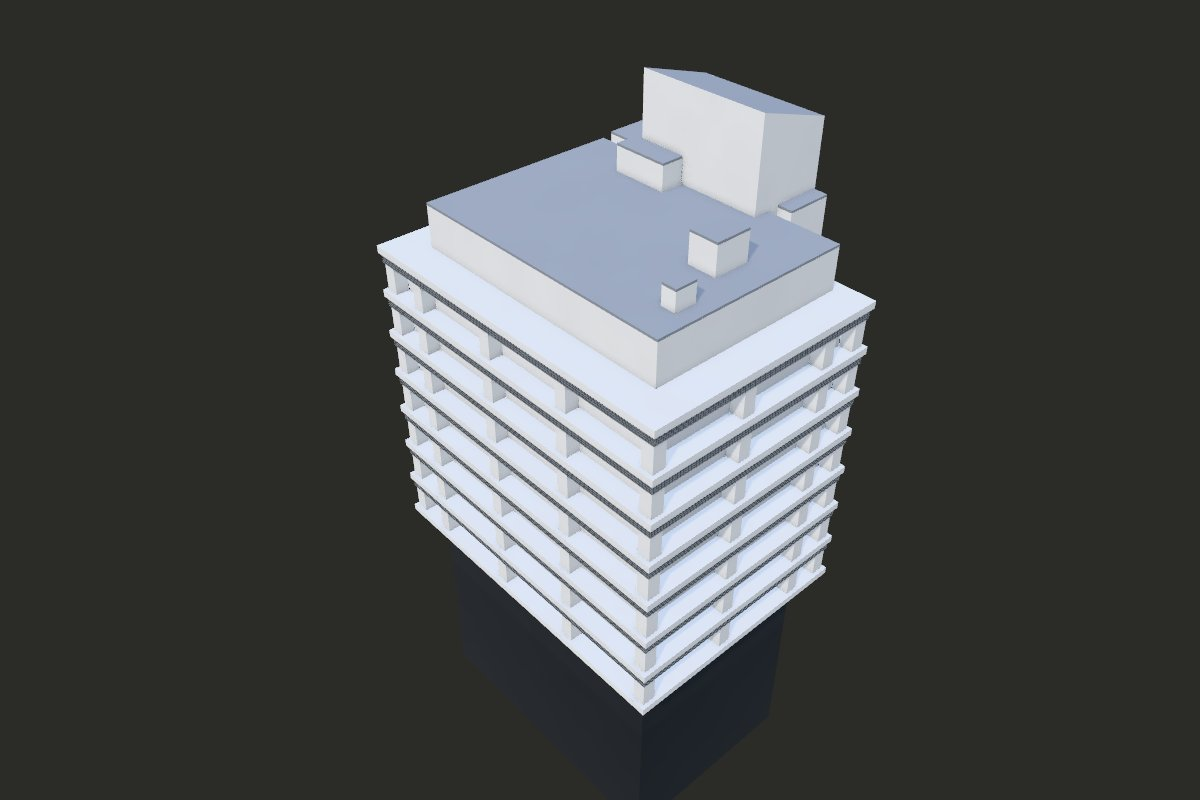
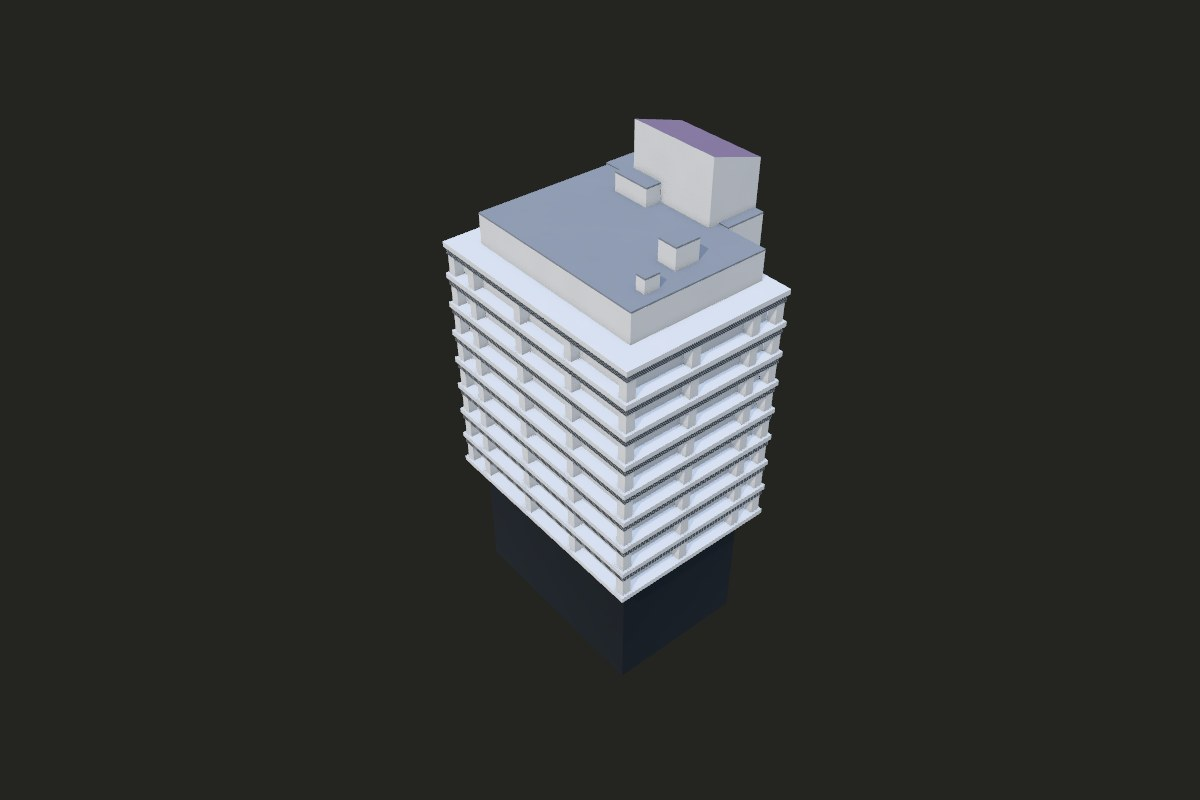
58 Symonds Street (435), review round 1: the lowest storey of windows, the core's plum roof, the ground's fall
The review of #167 found the band at 55.7 m and the storey of windows over the dark ground storey missing (the LiDAR
has 266 returns at 55.0 to 56.2 m in the bands' outer metre), so the tower has eight storeys of windows, not seven.
The 2023 aerial shows the core's roof a dull plum where the other roofs are grey: roofPlum is new in the kit, a roof
in the light form. The two strips on the street side run in to the upper roof's edge, as the LiDAR's roof does. The
ground's figures come from the LiDAR within 5 m of each face: the real ground falls about 6 m from the door to the
south-east face, not 11. The exposure goes to 0.69 (luma 177 against 177; 0.82 gave 192 with the eighth storey).

Silhouette IoU 0.938, 0.966 in the model's box; the top view as before (0.905, 93% within 0.5 m); 8,082 triangles in
6 draw calls. The four pictures are taken again, the site's two at 435's own framing.

Claude-Session: https://claude.ai/code/session_01WyPcwFTXkmVC7XB6LWPSiH

Changed region(s): [[0.3083, 0.0625, 0.74, 0.9062]]

diff --git a/landmarks/58-symonds-street/parts/common.js b/landmarks/58-symonds-street/parts/common.js
@@ -11,27 +11,30 @@
 // south-west.
 //
 // 58 Symonds Street, building 435: a tower of offices over a slope that falls from the north-west to the south-east,
-// its floor slabs' bands 3.04 m apart up to the roof's edge at 80.15 m, an upper roof set in from the edge at 83.1 m,
-// and on its street side a core to 89.2 m.
+// its eight floor slabs' bands about 3.05 m apart from 55.7 m up to the roof's edge at 80.15 m, an upper roof set in
+// from the edge at 83.1 m, and on its street side a core to 89.2 m.
 export const GROUND = 53.03;
 export const at = (u, w) => [-u, w];
 /** An elevation measured in the LiDAR, as a height above the config's ground. */
 export const Y = (z) => z - GROUND;
 export const plan = (corners) => corners.map(([u, w]) => at(u, w));
 
-// The ground round the tower lies from about 42.4 m (the south-east side, p1 of its returns) to 54.5 m (the north-west
-// side); the walls go down to FOOT.
+// The ground within 5 m of the tower's walls (the LiDAR's class 2) lies from about 45.8 m (p1; p50 47.2) along the
+// south-east face to 53.4 m on the platform before the north-east face, and rises to 54.4 to 55.5 m 6 to 10 m off the
+// north-west face; it falls to about 42.4 m 10 to 12 m south-east of the tower. The walls go down to FOOT.
 export const FOOT = Y(42.0);
 
 /** The tower: the outer edge of its floor slabs' bands (the LiDAR's returns on the faces to p0.5/p99.5: north-east
  * w -8.62, north-west u 13.34, south-east u -10.70; south-west w 8.7 where the core does not stand out), the slabs'
- * tops from the returns on the faces, 3.04 m apart (58.8, 61.83, 64.87, 67.93, 70.97, 74.01, 77.04), and the roof's
- * edge at 80.15 (p90 of the returns round the edge). */
+ * tops from the returns on the faces, about 3.05 m apart (55.7, 58.8, 61.83, 64.87, 67.93, 70.97, 74.01, 77.04: the
+ * lowest, at the foot of the storeys of windows over the dark ground storey, from the 266 returns at 55.0 to 56.2 m in
+ * the bands' outer metre on the north-east, north-west and south-east faces, p50 55.70), and the roof's edge at 80.15
+ * (p90 of the returns round the edge). */
 export const TOWER = {
   u: [-10.7, 13.4],
   w: [-8.6, 8.7],
   edge: Y(80.15),
-  slabs: [58.8, 61.83, 64.87, 67.93, 70.97, 74.01, 77.04].map(Y),
+  slabs: [55.7, 58.8, 61.83, 64.87, 67.93, 70.97, 74.01, 77.04].map(Y),
 };
 
 /** The upper roof, 2.2 to 2.4 m in from the edge (its returns' p0.5/p99.5: north-east w -6.25, north-west u 11.07,
@@ -41,12 +44,14 @@ export const UPPER = { u: [-8.32, 11.07], w: [-6.25, 7.8], top: Y(83.1) };
 
 /** On the street side, standing out from the south-west face: a low block by the south corner (u -10.97 to -8.54,
  * w 8.04 to 12.22, its roof at 61.83 m), a strip (u -8.54 to -3.53, w 7.73 to 12.53) to 83.22 m (p50 of its 139
- * returns over 80 m; a few to 84.1), and beside the core
- * on its north-west a strip (u 5.86 to 6.91, w 8.73 to 11.94; p50 83.22 of 29 returns) to 83.22 m. */
+ * returns over 80 m; a few to 84.1), and beside the core on its north-west a strip (u 5.86 to 6.91, w 8.73 to 11.94;
+ * p50 83.22 of 29 returns) to 83.22 m. Both strips run in to the upper roof's edge at w 7.8: the LiDAR's roof runs on
+ * from the upper roof to them at 83.2 to 83.7 m with no step down (u -8.3 to -3.6, w 7.8 to 8.7: 42 returns, p50
+ * 83.58). */
 export const STREET = [
   { u: [-10.97, -8.54], w: [8.7, 12.22], top: Y(61.83) },
-  { u: [-8.54, -3.53], w: [8.7, 12.53], top: Y(83.22) },
-  { u: [5.86, 6.91], w: [8.7, 11.94], top: Y(83.22) },
+  { u: [-8.54, -3.53], w: [7.8, 12.53], top: Y(83.22) },
+  { u: [5.86, 6.91], w: [7.8, 11.94], top: Y(83.22) },
 ];
 
 /** The core (u -3.53 to 5.86, w 6.68 to 12.11; 482 returns over 87.5 m), its roof one slope falling to the street:

diff --git a/landmarks/58-symonds-street/parts/block.js b/landmarks/58-symonds-street/parts/block.js
@@ -4,8 +4,9 @@
 import { CORE, FOOT, PLANT, STREET, TOWER, UPPER, at, plan } from "./common.js";
 import { block, prism, tris } from "./shapes.js";
 
-// The walls the pale grey of the tower's bands, as the photograph shows them; the roofs mid-grey.
-const WALL = "claddingPale", ROOFS = "roofGrey";
+// The walls the pale grey of the tower's bands, as the photograph shows them; the roofs mid-grey, and the core's a dull
+// plum, as the 2023 aerial shows them (about RGB 121, 103, 127 on the core, 167, 166, 169 on the upper roof).
+const WALL = "claddingPale", ROOFS = "roofGrey", CORE_ROOF = "roofPlum";
 
 const box = ([u0, u1], [w0, w1]) => plan([[u0, w0], [u1, w0], [u1, w1], [u0, w1]]);
 
@@ -29,7 +30,7 @@ export function core(b) {
   const h = (w) => CORE.high - CORE.fall * (w - CORE.at), lo = h(w1), hi = h(w0);
   prism(b, box(CORE.u, CORE.w), FOOT - 0.1, lo, WALL);
   const P = (u, w, y) => { const [x, z] = at(u, w); return [x, y, z]; };
-  tris(b, [[P(u0, w0, hi), P(u1, w0, hi), P(u1, w1, lo)], [P(u0, w0, hi), P(u1, w1, lo), P(u0, w1, lo)]], ROOFS, "up");
+  tris(b, [[P(u0, w0, hi), P(u1, w0, hi), P(u1, w1, lo)], [P(u0, w0, hi), P(u1, w1, lo), P(u0, w1, lo)]], CORE_ROOF, "up");
   const out = (du, dw) => ([x, z]) => [x - du, z + dw];  // outward in the view frame (x = -u)
   tris(b, [[P(u0, w0, lo), P(u1, w0, lo), P(u1, w0, hi)], [P(u0, w0, lo), P(u1, w0, hi), P(u0, w0, hi)]], WALL, out(0, -1));
   tris(b, [[P(u0, w0, lo), P(u0, w0, hi), P(u0, w1, lo)]], WALL, out(-1, 0));

diff --git a/landmarks/kit/materials.js b/landmarks/kit/materials.js
@@ -347,6 +347,9 @@ export function makeMaterials(quality = "high", textures = makeTextures(quality)
     claddingYellow: painted(0xc8a844, 0.6, space),
     renderRed: painted(0x7e322b, 0.7, space),
     steelBlue: painted(0x7f90a2, 0.5, space),
+    // 58 Symonds Street: the pale roof's shader in a dull plum, the roof of its core on the 2023 aerial (about RGB
+    // 121, 103, 127 there, where its other roofs are a neutral light grey)
+    roofPlum: roofPale(0x79677f, space),
   };
   return m;
 }

diff --git a/src/scene/landmarks.ts b/src/scene/landmarks.ts
@@ -89,6 +89,7 @@ const LIGHT_ROLE: Record<string, keyof LightMaterials> = {
   roofGrey: "roof",
   roofGreen: "roof",
   roofTile: "roof",
+  roofPlum: "roof",
   glass: "glass",
   glassPale: "glass",
   glassGreen: "glass",

diff --git a/README.md b/README.md
@@ -70,7 +70,7 @@ It is built to answer two questions a student actually has:
 ## What's new
 
 - **2026-11-12:** on the City campus the map draws 58 Symonds Street in detail, where it stood as a measured massing:
-  a tower of seven storeys of windows over a dark ground storey, a pale band at every floor with louvres hung under it,
+  a tower of eight storeys of windows over a dark ground storey, a pale band at every floor with louvres hung under it,
   and piers between the windows. Its sizes come from the LiDAR; it was compared with a photograph, which is not
   published, and its card says what is estimated.
 - **2026-11-11:** four more buildings are drawn from the LiDAR as measured massings, their roofs at their
@@ -929,7 +929,7 @@ drawn plainly.
 | ![Fine Arts Studio Block 433 from the road at its end, drawn from code](docs/landmarks/fine-arts-studio-block-433-front.jpg) | ![Fine Arts Studio Block 433 from above, drawn from code](docs/landmarks/fine-arts-studio-block-433-above.jpg) |
 | ![Fine Arts Studio Block 433 on the map, drawn from code in the map's colours](docs/landmarks/fine-arts-studio-block-433-map.jpg) | ![Fine Arts Studio Block 433 from the road at its end, through the walker's eyes](docs/landmarks/fine-arts-studio-block-433-eyes.jpg) |
 
-The thirty-seventh is 58 Symonds Street, on the City campus, until now a measured massing: a tower of seven storeys of
+The thirty-seventh is 58 Symonds Street, on the City campus, until now a measured massing: a tower of eight storeys of
 windows over a dark ground storey, on a slope that falls to the south-east; at every floor a deep pale grey band runs
 round it with a row of louvres hung under it, over a band of windows set back behind it, a column at each corner and
 piers between them; an upper roof stands in from its edge, and on its street side a core rises over it with a roof
@@ -1173,7 +1173,7 @@ an estimate of 3.6 m a floor, and its windows and roof rims are drawn by rule.
 | A photograph of Auckland Bioengineering House from Symonds Street to its north-west | The look its model was compared with while it was drawn, and the place of the second stone fin on its north face, estimated in it through a camera fitted to the LiDAR | Used as a reference only: never published, traced or sampled, and kept on the maintainer's computer. |
 | A photograph of Architecture - East from a paved deck above its raised terrace | The look its model was compared with while it was drawn, and, as a reference, the storeys' height and the parapets, windows and dormers on its faces to the terrace | Used as a reference only: never published, traced or sampled, and kept on the maintainer's computer. |
 | A photograph of Building 907 from the street to its west-south-west | The look its model was compared with while it was drawn, and, as a reference, the places and heights of the band of glazing on the hall's end and of the annex's windows and doors, estimated in it through a camera fitted to the LiDAR | Used as a reference only: never published, traced or sampled, and kept on the maintainer's computer. |
-| Auckland Central 0.06 m Urban Aerial Photos (2023), tiles `BA32_2000_*` of LINZ's imagery on AWS | The plan of the Kenneth Myers Centre's west part (820), where the 2024 LiDAR holds temporary works, measured for its model in `landmarks/kenneth-myers-centre/`; for the Kate Edger Information Commons (315), where its end over the sunken court ends and that its roof light is glass; for the Humanities Building (206), that its roofs are red clay tiles but for the two flat roofs in the angle of its L, which are grey; for building 302 of the Science Centre (302), that its roofs are grey; for building 303 of the Science Centre (303), that the roofs of its range along the street and of its slab are near white; for building 303S of the Science Centre (303S), that its roofs are grey; for Building 907 (907), that its roofs are near white; for 49 Symonds Street (620), that the flat top of the mansard on its roof is pale; for Okareta (215), that its roofs are grey; for buildings 501, 502, 505 and 507 of the M&HS Building (501, 502, 505, 507), that their roofs are grey; for Te Pūtahi Tangata (201), that its roofs are grey, with strips of glazing and a planted part on the hall's; for the George Mason Biology Building (106), that its roofs and its attic are grey; for Building 114 (114), that its roofs are light grey; for 67 Symonds Street (619), that its roofs are mid-grey; for Fine Arts Studio Block 431 (431), that its roofs are light grey; for Fine Arts Studio Block 433 (433), that its vault is light grey; for 58 Symonds Street (435), that its roofs are grey; for 2-6 Park Ave (529), that its raised part's roof is red | Sourced from LINZ and licensed by Auckland Council for re-use under [CC BY 4.0](https://creativecommons.org/licenses/by/4.0/) ([LINZ's attribution page](https://www.linz.govt.nz/products-services/data/licensing-and-using-data/attributing-elevation-or-aerial-imagery-data)). Only the measured sizes are published, in the landmark's `parts/common.js`; the tiles stay on the computer that fetched them. |
+| Auckland Central 0.06 m Urban Aerial Photos (2023), tiles `BA32_2000_*` of LINZ's imagery on AWS | The plan of the Kenneth Myers Centre's west part (820), where the 2024 LiDAR holds temporary works, measured for its model in `landmarks/kenneth-myers-centre/`; for the Kate Edger Information Commons (315), where its end over the sunken court ends and that its roof light is glass; for the Humanities Building (206), that its roofs are red clay tiles but for the two flat roofs in the angle of its L, which are grey; for building 302 of the Science Centre (302), that its roofs are grey; for building 303 of the Science Centre (303), that the roofs of its range along the street and of its slab are near white; for building 303S of the Science Centre (303S), that its roofs are grey; for Building 907 (907), that its roofs are near white; for 49 Symonds Street (620), that the flat top of the mansard on its roof is pale; for Okareta (215), that its roofs are grey; for buildings 501, 502, 505 and 507 of the M&HS Building (501, 502, 505, 507), that their roofs are grey; for Te Pūtahi Tangata (201), that its roofs are grey, with strips of glazing and a planted part on the hall's; for the George Mason Biology Building (106), that its roofs and its attic are grey; for Building 114 (114), that its roofs are light grey; for 67 Symonds Street (619), that its roofs are mid-grey; for Fine Arts Studio Block 431 (431), that its roofs are light grey; for Fine Arts Studio Block 433 (433), that its vault is light grey; for 58 Symonds Street (435), that its roofs are grey but for its core's, which is plum; for 2-6 Park Ave (529), that its raised part's roof is red | Sourced from LINZ and licensed by Auckland Council for re-use under [CC BY 4.0](https://creativecommons.org/licenses/by/4.0/) ([LINZ's attribution page](https://www.linz.govt.nz/products-services/data/licensing-and-using-data/attributing-elevation-or-aerial-imagery-data)). Only the measured sizes are published, in the landmark's `parts/common.js`; the tiles stay on the computer that fetched them. |
 | A photograph of the Sir Owen G Glenn Building from the north edge of its plaza | The look its model was compared with while it was drawn, and, as a reference, the heights of the bands of glass, spandrels and louvres on its curved wing, estimated in it through a camera fitted to the LiDAR | Used as a reference only: never published, traced or sampled, and kept on the maintainer's computer. |
 | [Open-Meteo](https://open-meteo.com/) | Current weather in Auckland (temperature, cloud, rain, wind), fetched by the visitor's browser | [CC BY 4.0](https://open-meteo.com/en/licence) |
 | ["Animated Human" by Quaternius](https://opengameart.org/content/animated-human-low-poly) | The walker's body and its idle, walk and run, in `public/models/walker.glb` | [CC0 1.0](https://creativecommons.org/publicdomain/zero/1.0/), public domain. Downloaded once, on 2026-10-16. |
@@ -1702,8 +1702,8 @@ If you represent the University and would like something changed or removed, ple
   is not known from a record: its door is set on the platform before its north-east face, near the north corner. The
   map's ground there is 9.52 m under the LiDAR's, so the model stands that much lower than the real building, on the
   drawn ground at its door; under its walls the map's ground runs from 2.08 m under the door's to 1.25 m over it,
-  where the real ground falls about 11 m to the south-east, so on the site its lowest storeys on that side stand
-  under the drawn ground.
+  where the real ground falls about 6 m to the south-east, so on the site the lowest 4 m or so on that side, the lower
+  half of its dark ground storey there, stand under the drawn ground.
 - **The Fisher Building is seen from Waterloo Quadrant only.** Two Street View panoramas see its west
   and south faces; its faces turned north, east and south-east, which no photograph shows, are tan
   brick with their floor bands, and its roofs are flat. Block 804's outline under the trees by its

diff --git a/landmarks/58-symonds-street/README.md b/landmarks/58-symonds-street/README.md
@@ -1,6 +1,6 @@
 # Landmark: 58 Symonds Street, drawn from code
 
-58 Symonds Street of the University of Auckland, on the City campus: a tower of seven storeys of windows over a dark
+58 Symonds Street of the University of Auckland, on the City campus: a tower of eight storeys of windows over a dark
 ground storey, on a slope that falls from the north-west to the south-east, a deep pale grey band at every floor with
 a row of louvres hung under it, a column at each corner and piers between, an upper roof set in from its edge, and on
 its street side a core whose roof falls to the street. It is drawn in three.js from code alone, sized by the LINZ 2024
@@ -65,8 +65,9 @@ From the LiDAR:
   the core's north-west (83.22 m), and the core (u -3.53 to 5.86, w 6.68 to 12.11), its roof one slope falling to the
   street, 0.3 m a metre, from 89.25 m at w 7.0 (the returns' p50 in 0.5 m strips run from 89.23 at w 7.0 to 87.75 m at
   w 12.0).
-- **The walls' foot**, FOOT, 42.0 m: the ground round the tower lies from about 42.4 m on the south-east to 55.6 m on
-  the north-west.
+- **The walls' foot**, FOOT, 42.0 m: the ground within 5 m of the walls lies from about 45.8 m along the south-east
+  face (p50 47.2) to 53.4 m on the platform before the north-east face, and rises to 55.5 m off the north-west face;
+  it falls to about 42.4 m 10 to 12 m south-east of the tower.
 
 Estimated, with the photograph as a reference (`FACE`): each slab's band 0.5 m deep from its top (19 to 20 px at the
 photograph's near corner, where the fitted camera puts 0.5 m at 19 to 20 px and 0.7 m at 27 to 28); the window wall
@@ -83,7 +84,7 @@ stands out past the bands above 62 m.
 
 The photograph's two faces face north-east and north-west and show about equally bright, so the viewer's sun stands to
 the north-north-east (20 degrees round, 45 up), weaker than by default (3, against 8), with a stronger sky (3.2, against
-2.25), at an exposure of 0.82 (the config's `light`): over the model's screen box the luma (p50) 177 against the
+2.25), at an exposure of 0.69 (the config's `light`): over the model's screen box the luma (p50) 177 against the
 photograph's 177.
 
 ## On the map (step 7)
@@ -103,12 +104,14 @@ leaves it out, as it does every landmark on the site, and writes every other fil
 - **The foot.** It stands alone, its y = 0 on the map's ground at its door. Its walls go down to FOOT, 11.03 m under
   the door's ground, under the map's ground at every corner of the walls (the lowest, 2.08 m under the door's, at the
   tower's east corner; 8.95 m to spare).
-- **Under the drawn ground.** The real ground falls about 11 m from the door to the tower's south-east side; the map's
-  8 m ground falls only about 2 m there, so on the site the lowest storeys on that side stand under the drawn ground.
+- **Under the drawn ground.** The real ground falls about 6 m from the door to the tower's south-east side (the
+  LiDAR's within 5 m of that face, p50 47.2 m); the map's 8 m ground falls only about 2 m there, so on the site the
+  lowest 4 m or so on that side, the lower half of the dark ground storey there, stand under the drawn ground.
 - **While a building is open** its neighbours sink to footprints, and the model gives way to block 435, which sinks on
   its footing (`updateLandmarks` in `src/scene/CampusScene.ts`).
-- **The light form** (the map, and the walker views of the basic tier) draws `glass` as glass and `roofGrey` as a roof,
-  as `LIGHT_ROLE` (`src/scene/landmarks.ts`) already says; `claddingPale`, `screenGrey` and `screenBlack` are walls.
+- **The light form** (the map, and the walker views of the basic tier) draws `glass` as glass and `roofGrey` and
+  `roofPlum` as roofs, as `LIGHT_ROLE` (`src/scene/landmarks.ts`) says (`roofPlum`, the core's roof, is new in the kit
+  for it); `claddingPale`, `screenGrey` and `screenBlack` are walls.
 - **Its card** says "estimated:" and the config's `estimated`.
 - **The pictures** in `docs/landmarks/`: `58-symonds-street-front.jpg` and `-above.jpg` are the viewer's renders of the
   model alone, from the ground to its north and from above, with no photograph; `-map.jpg` and `-eyes.jpg` are shots of

diff --git a/landmarks/58-symonds-street/docs/CONTRACT.md b/landmarks/58-symonds-street/docs/CONTRACT.md
@@ -18,8 +18,9 @@ The rules every part of this landmark keeps. The kit, the pipeline and the viewe
   face, a low block by the south corner to 61.83 m, two strips to 83.22 m and a core whose roof falls to the street
   from 89.25 to 87.72 m; plant on the upper roof at 84.5 to 85.2 m. A low roof at about 56 m runs along the
   south-east side (u -15.5 to -10.9), outside the campus map's outline: it is not drawn.
-- Walls go down to `FOOT`, 42.0 m: the ground round the tower lies from about 42.4 m on the south-east to 55.6 m on
-  the north-west, the car park's ramp falling along the north-east side.
+- Walls go down to `FOOT`, 42.0 m: the ground within 5 m of the walls lies from about 45.8 m along the south-east face
+  (p50 47.2) to 53.4 m on the platform before the north-east face, and rises to 55.5 m off the north-west face; it
+  falls to about 42.4 m 10 to 12 m south-east of the tower, the car park's ramp falling along the north-east side.
 
 ## Who owns what
 - `parts/common.js` (the measured sizes and the frame), `parts/block.js`, `parts/facade.js`, `parts/shapes.js`
@@ -27,7 +28,8 @@ The rules every part of this landmark keeps. The kit, the pipeline and the viewe
 
 ## Budget
 - Whole building ≤ 20k triangles and ≤ 6 draw calls (tier 3, a measured massing drawn in detail), merged by material.
-  Round 0: 204 triangles in the mask model; steps 5 to 8: 7,098 triangles, 5 draw calls.
+  Round 0: 204 triangles in the mask model; steps 5 to 8: 7,098 triangles, 5 draw calls; after the review of #167:
+  8,082 triangles, 6 draw calls.
 
 ## Rounds
 - Round 0 (2026-11-11, the lead alone): the tower, its slabs' bands, the upper roof and the street side's three
@@ -45,3 +47,11 @@ The rules every part of this landmark keeps. The kit, the pipeline and the viewe
   measured massing's data file gone. 7,098 triangles, 5 draw calls; silhouette IoU 0.938, 0.970 in the model's box;
   top view: footprint IoU 0.905, 93% of 1,873 cells within 0.5 m, the highest point 36.30 m over the door's ground
   against the LiDAR's 36.27, block 435 97.7% under the model.
+- The review of #167 (2026-11-12): the lowest slab's band at 55.7 m (the LiDAR's 266 returns at 55.0 to 56.2 m in
+  the bands' outer metre) and its storey of windows, which the photograph shows over the dark ground storey: eight
+  storeys of windows, not seven; the core's roof a dull plum (`roofPlum`, new in the kit), as the 2023 aerial shows
+  it; the two strips on the street side run in to the upper roof's edge, as the LiDAR's roof does; the ground's
+  figures from the LiDAR within 5 m of each face (the real ground falls about 6 m from the door to the south-east
+  face, not 11); the exposure 0.69 (0.82 gave 192 with the eighth storey drawn). Silhouette IoU 0.938, 0.966 in the
+  model's box; luma 177 against 177. Top view as before: footprint IoU 0.905, 93% of 1,873 cells within 0.5 m, the
+  highest point 36.30 m over the door's ground against 36.27. 8,082 triangles, 6 draw calls.

diff --git a/CHANGELOG.md b/CHANGELOG.md
@@ -19,7 +19,7 @@ A change to what the site does or shows adds its line here, and the README's
 ### Added
 
 - **58 Symonds Street drawn in detail.** Near the camera the map draws 58 Symonds Street (435), on the City campus,
-  from code in place of the measured massing that stood for it: a tower of seven storeys of windows over a dark ground
+  from code in place of the measured massing that stood for it: a tower of eight storeys of windows over a dark ground
   storey, a deep pale grey band at every floor with a row of louvres hung under it, a column at each corner and piers
   between, an upper roof set in from its edge, and on its street side a core whose roof falls to the street. Its sizes
   come from the LINZ 2024 LiDAR; it was compared with a photograph from the ground to its north, and its card says
